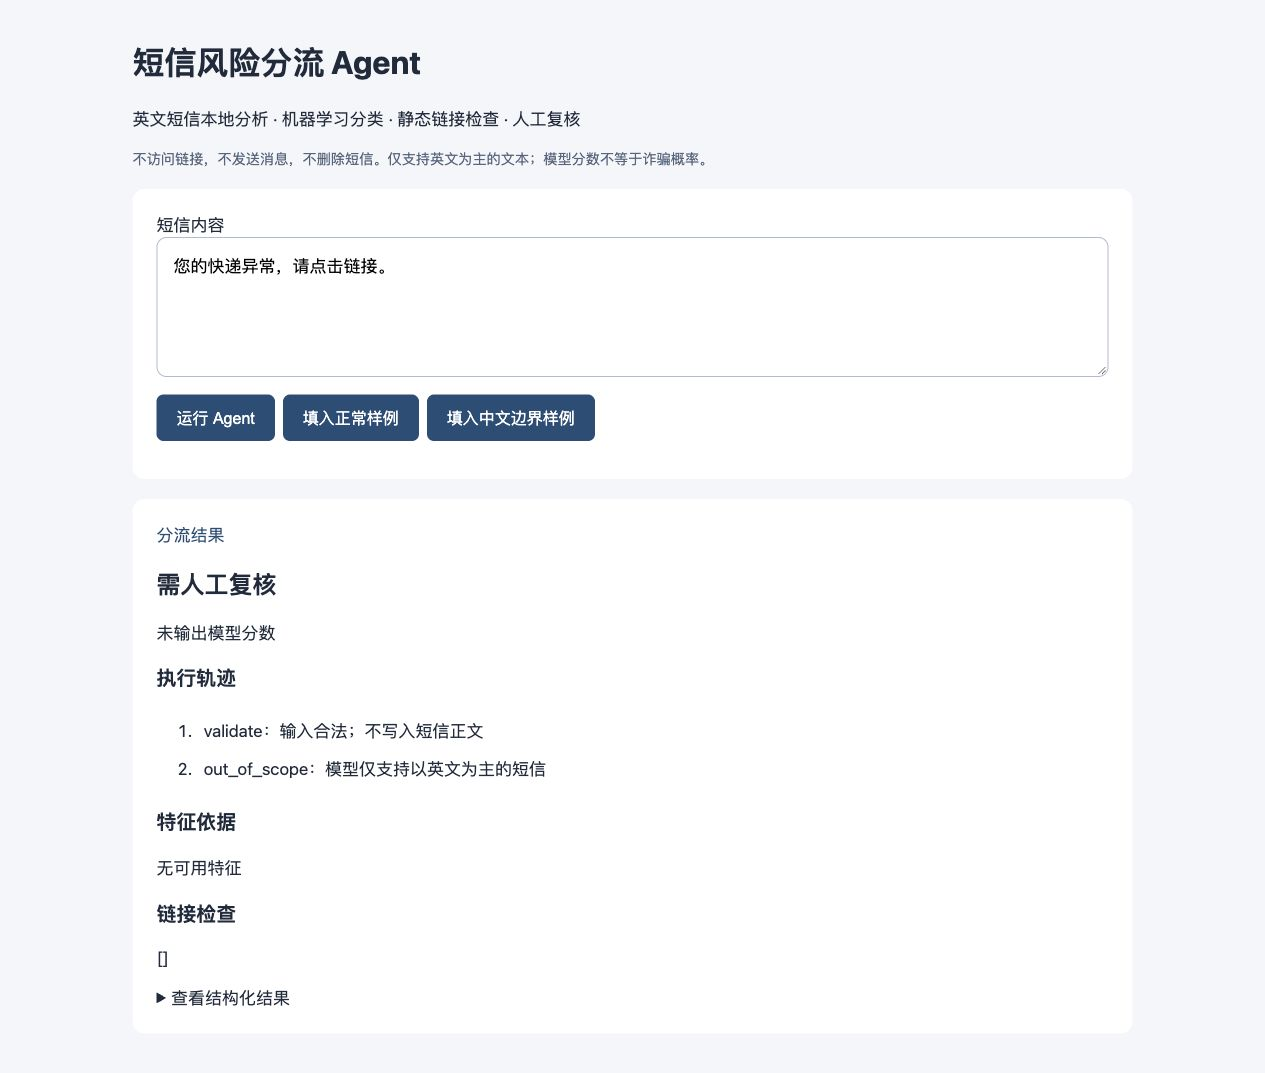
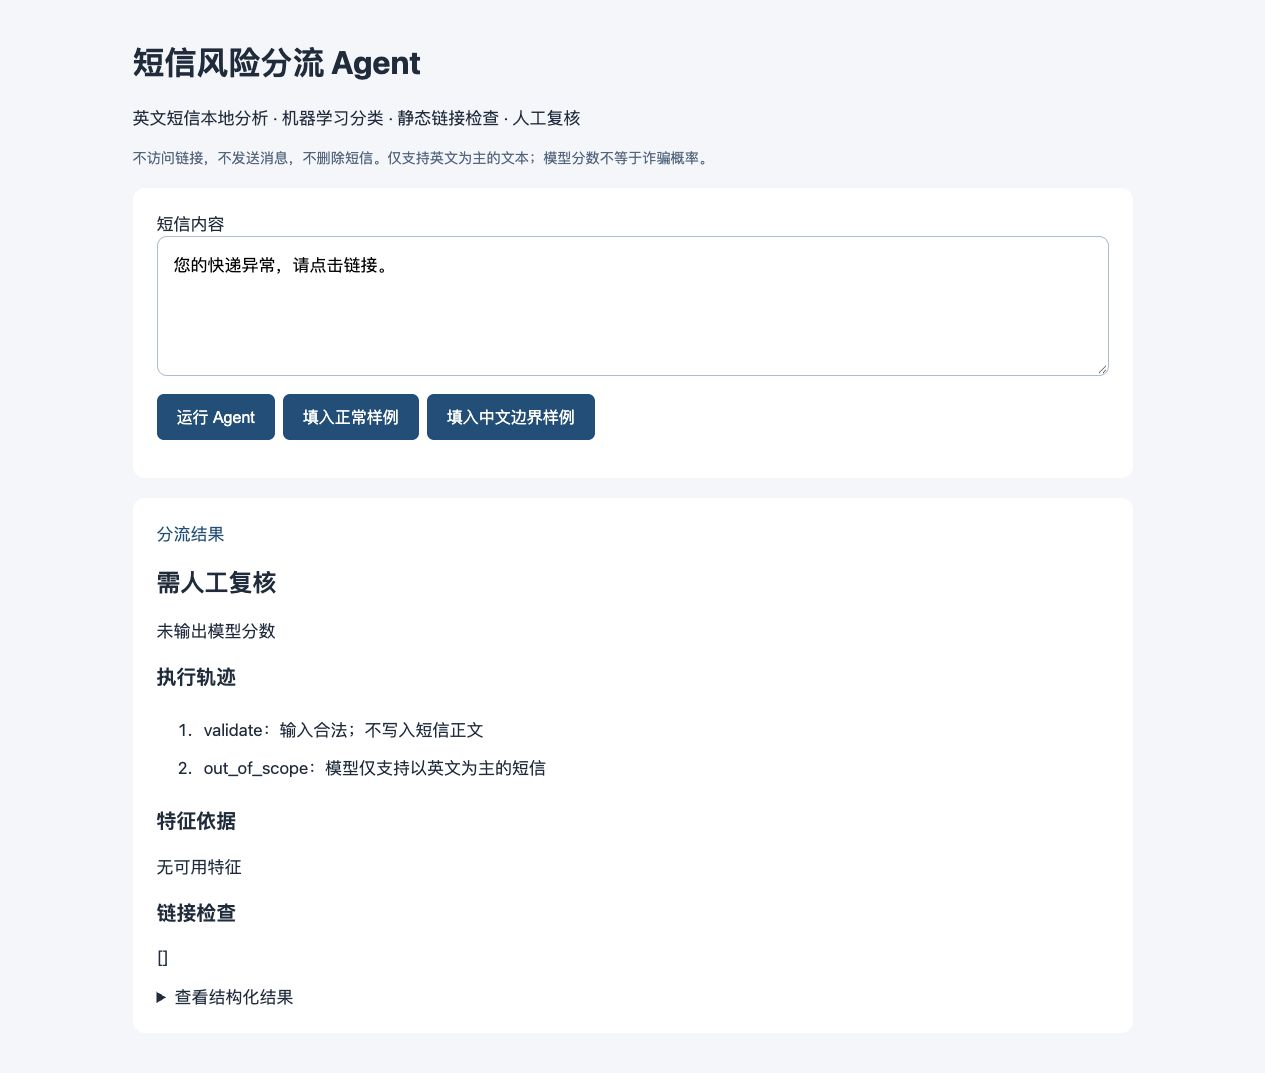
Refresh actual demonstration captures and submission documentation

diff --git a/README.md b/README.md
@@ -50,7 +50,7 @@ python src/plot_results.py
 
 仅英文垃圾短信识别；历史数据不能证明对2026年诈骗有效。中文、多语言、无已知特征输入回退人工。没有真人用户试验、没有时间节省实测。相似模板可能仍跨集合，诊断数量见metrics；不能宣称完全消除模板泄漏。
 
-数据：Almeida & Hidalgo (2011), SMS Spam Collection, UCI, DOI https://doi.org/10.24432/C5CC84 ，CC BY 4.0。完整依赖、来源、许可和复用边界见 `docs/THIRD_PARTY.md` 和报告附录。生成式AI参与代码、实验设计、文档起草与调试；结果由实际运行记录支撑，提交者需自行阅读并能解释实现。
+数据：Almeida & Hidalgo (2011), SMS Spam Collection, UCI, DOI https://doi.org/10.24432/C5CC84 ，CC BY 4.0。完整依赖、来源、许可和复用边界见 `docs/THIRD_PARTY.md` 和报告附录。结果由实际运行记录支撑，提交者需自行阅读并能解释实现。
 
 ## 已运行结果与演示
 
@@ -64,4 +64,4 @@ python src/plot_results.py
 
 https://github.com/Ali-Xiyao/sms-triage-agent-course-project
 
-此仓库仅提供代码、公开数据、实验记录和演示，不包含学生身份信息或正式提交报告。AI辅助范围和组件归属在本文及docs/THIRD_PARTY.md披露。
+此仓库仅提供代码、公开数据、实验记录和演示，不包含学生身份信息或正式提交报告。组件归属在本文及docs/THIRD_PARTY.md列出。

diff --git a/docs/评分标准对照.md b/docs/评分标准对照.md
@@ -7,6 +7,6 @@
 | Agent设计与可运行性 | 20 | 第2、9节；core.py、app.py；18项测试与真实界面截图 | 确定性任务工作流，非通用规划 |
 | Skills复用与工程整合 | 15 | 第5节、附录A；THIRD_PARTY、licenses、component_audit | 核心复用为开源工具，自编skill单独标明 |
 | 实验评估与结果分析 | 20 | 第6—8节；全量预测、错误、消融、扰动、bootstrap | 拒判无增益如实披露，仍有近重复 |
-| 报告复现与学术规范 | 10 | PDF、可编辑Word、README、锁定依赖、答辩材料、AI声明 | 公开GitHub仓库提供代码和可运行原型，身份报告仅留本地 |
+| 报告复现与学术规范 | 10 | PDF、可编辑Word、README、锁定依赖、答辩材料、运行记录 | 公开GitHub仓库提供代码和可运行原型，身份报告仅留本地 |
 
 该表用于核对覆盖程度，不是分数预测，不能保证教师评分。

diff --git a/docs/答辩提纲.md b/docs/答辩提纲.md
@@ -23,7 +23,6 @@
 - 0→1和1→0各是什么：0=ham、1=spam；前者误报，后者漏判。
 - 人工复核算不算成功：不算正确分类，只减少自动覆盖；尚未评测人工处理质量或节省时间。
 - 哪些是原创：工作流、数据处理、实验脚本、阈值策略、静态工具、解释和UI编排；学习器和语料明确复用并标注许可。
-- AI辅助是否披露：报告已披露Codex参与代码、调试、实验和文档，提交者必须自行理解、核验并负责。
 
 ## 提交前亲自执行
 
